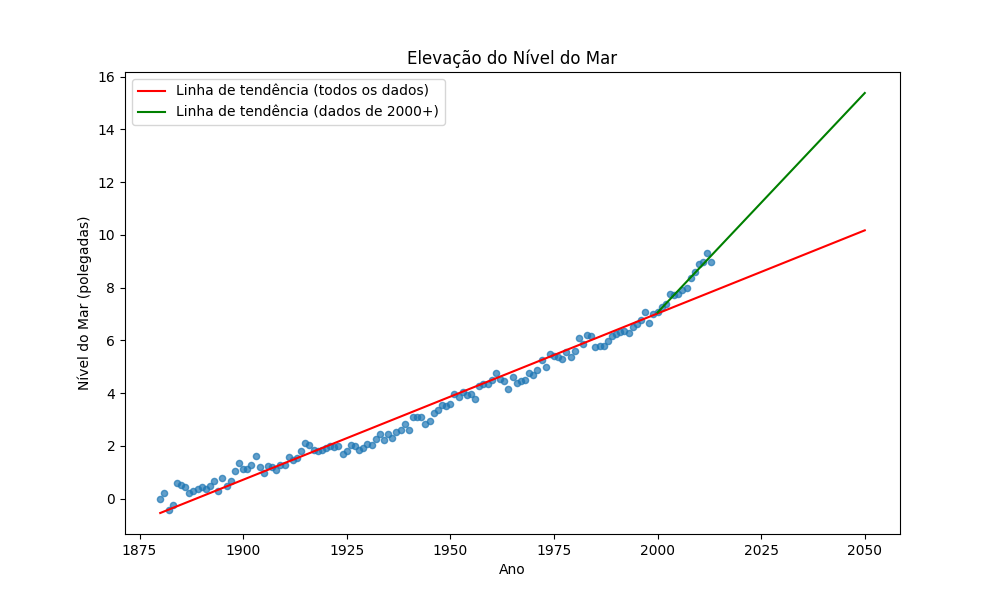
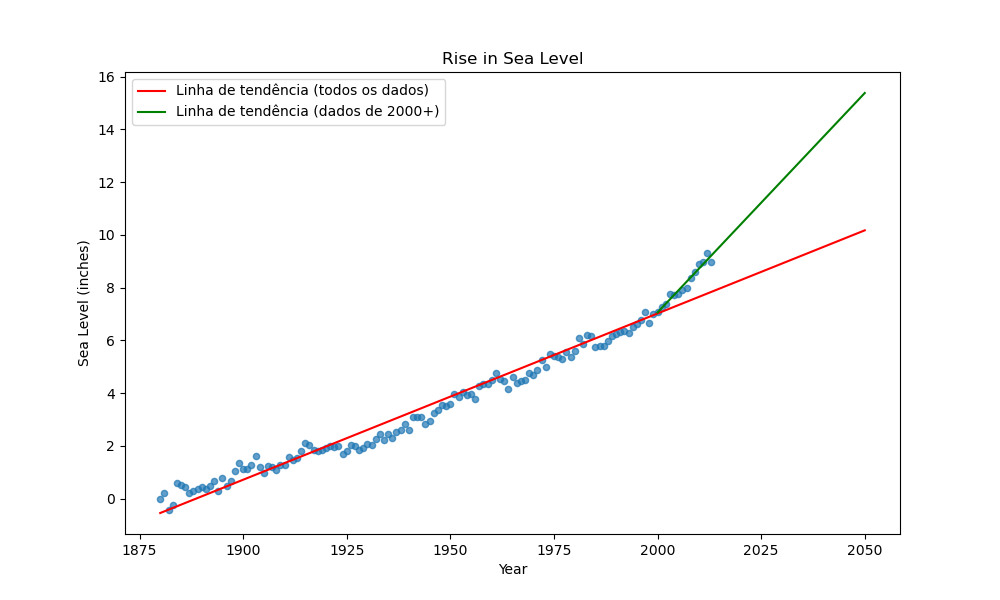
fix: correção de nome das labels

diff --git a/sea_level_predictor.py b/sea_level_predictor.py
@@ -33,9 +33,9 @@ def draw_plot():
 
 
     # Add labels and title
-    plt.xlabel('Ano')
-    plt.ylabel('Nível do Mar (polegadas)')
-    plt.title('Elevação do Nível do Mar')
+    plt.xlabel('Year')
+    plt.ylabel('Sea Level (inches)')
+    plt.title('Rise in Sea Level')
     plt.legend()
 
     
